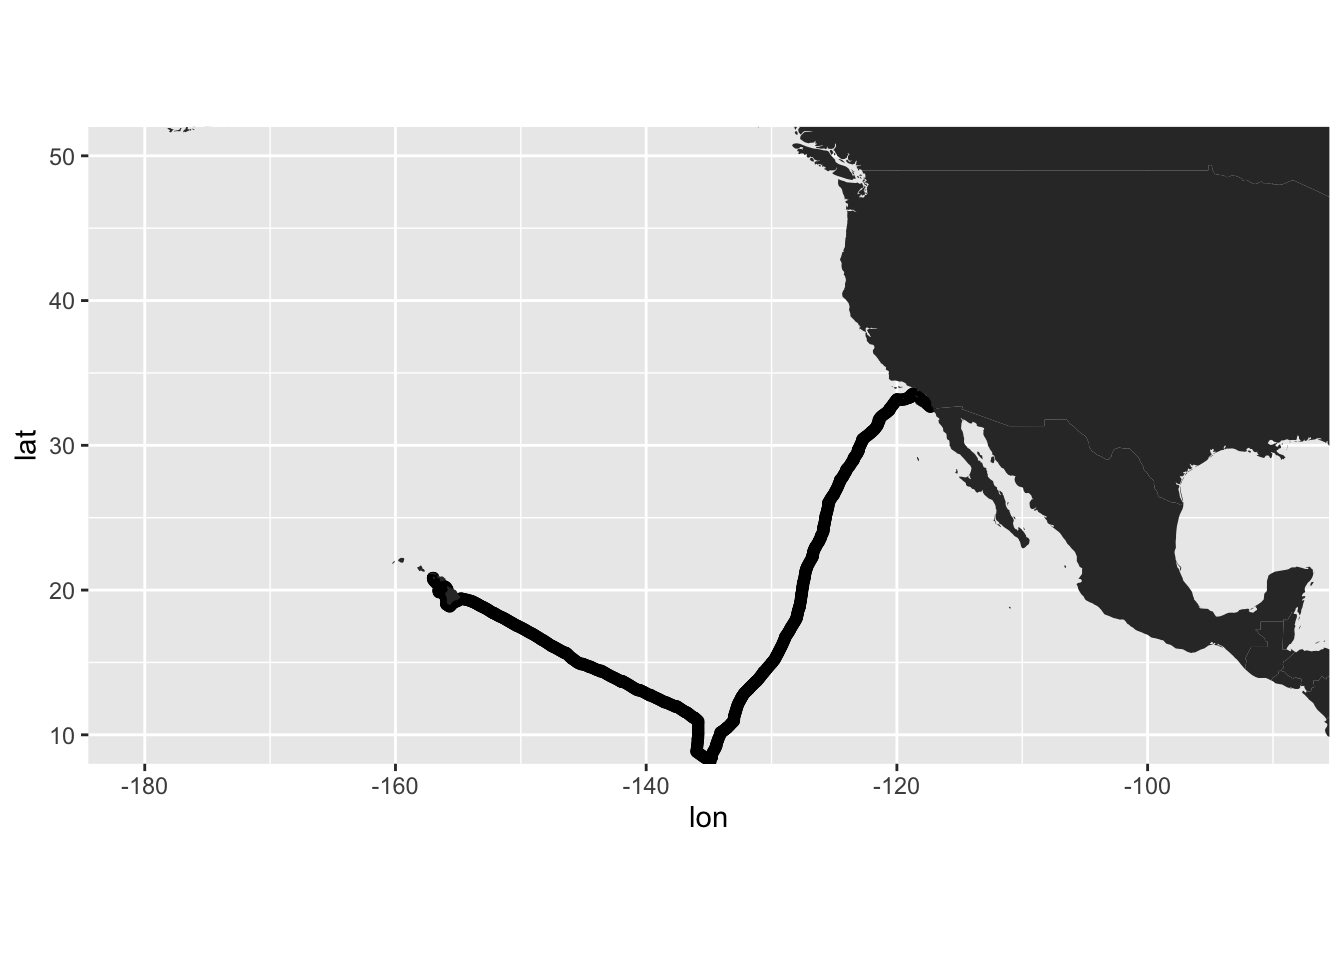
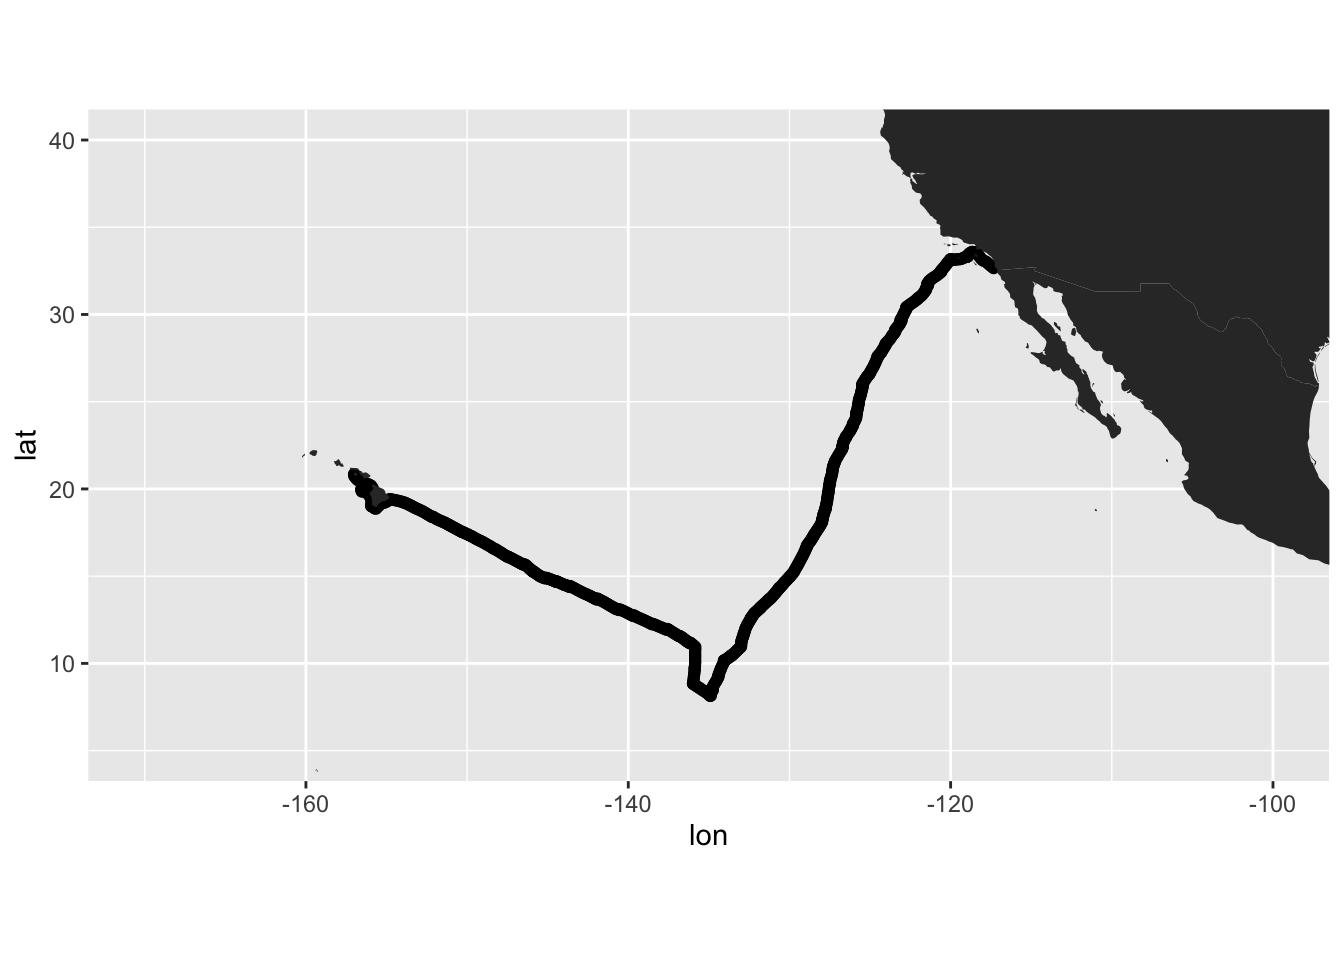
update the mapping saqs

diff --git a/content/saqs/2021-10-15-maps/index.html b/content/saqs/2021-10-15-maps/index.html
@@ -1,5 +1,5 @@
 ---
-title: How to make a map
+title: How do I make a map?
 author: Ben Harden
 date: '2021-10-15'
 slug: []
@@ -11,38 +11,13 @@ draft: no
 <script src="{{< blogdown/postref >}}index_files/header-attrs/header-attrs.js"></script>
 
 
+<p>OK, so this question needs it’s own post…</p>
 <div id="prerequisites" class="section level2">
 <h2>Prerequisites</h2>
-<p>This will be a walk through of how to plot data on a map. We’ll be using the S225 hourly location data to plot a cruise track.</p>
+<p>This will be a walk through of how to plot data on a map. We’ll be using the <a href="S225_hourly.csv">S225 hourly</a> location data to plot a cruise track.</p>
 <p>Before we can get going, we need to load our tidyverse library and read in our data like in previous tutorials.</p>
-<pre class="r"><code>library(tidyverse)</code></pre>
-<pre><code>## ── Attaching packages ─────────────────────────────────────── tidyverse 1.3.0 ──</code></pre>
-<pre><code>## ✓ ggplot2 3.3.3     ✓ purrr   0.3.4
-## ✓ tibble  3.1.0     ✓ dplyr   1.0.5
-## ✓ tidyr   1.1.3     ✓ stringr 1.4.0
-## ✓ readr   1.4.0     ✓ forcats 0.5.1</code></pre>
-<pre><code>## ── Conflicts ────────────────────────────────────────── tidyverse_conflicts() ──
-## x dplyr::filter() masks stats::filter()
-## x dplyr::lag()    masks stats::lag()</code></pre>
-<pre class="r"><code>df &lt;- read_csv(&quot;S225_hourly.csv&quot;)</code></pre>
-<pre><code>## 
-## ── Column specification ────────────────────────────────────────────────────────
-## cols(
-##   dttm = col_datetime(format = &quot;&quot;),
-##   date = col_date(format = &quot;&quot;),
-##   time = col_double(),
-##   zd = col_logical(),
-##   lon = col_double(),
-##   lat = col_double(),
-##   temp = col_double(),
-##   sal = col_double(),
-##   fluor = col_double(),
-##   cdom_1min = col_double(),
-##   xmiss_1min = col_double(),
-##   depth = col_double(),
-##   wind_sp = col_double(),
-##   wind_dir = col_double()
-## )</code></pre>
+<pre class="r"><code>library(tidyverse)
+df &lt;- read_csv(&quot;S225_hourly.csv&quot;)</code></pre>
 </div>
 <div id="mapping" class="section level2">
 <h2>Mapping</h2>
@@ -50,62 +25,81 @@ draft: no
 <pre class="r"><code>ggplot(df, aes(lon,lat)) +
   geom_point()</code></pre>
 <p><img src="{{< blogdown/postref >}}index_files/figure-html/initial-map-1.png" width="672" /></p>
-<p>The next thing we can do is add some land to contextualize the cruise track. We can do this using inbuilt map data in <code>ggplot</code>. The data file we’re going to use is called <code>world</code> because that is the world map data that spans the antimeridian. This data contains not only the lon and lat data of coastlines, but also groups them together into islands and nations so you can plot these territories. Each island and nation gets a unique <code>group</code> name. The way we can use this in ggplot is by using <code>geom_polygon()</code> with a group aesthetic. This basically creates a polygon for every individual group.</p>
+<p>The next thing we can do is add some land to contextualize the cruise track. We can do this using inbuilt map data in <code>ggplot</code>. The data file we’re going to use is called <code>world</code> (perhaps unsurprisingly). This data contains not only the lon and lat data of coastlines, but also groups them together into islands and nations so you can plot these territories. Each island and nation gets a unique <code>group</code> name. The way we can use this in ggplot is by using <code>geom_polygon()</code> with a group aesthetic. This basically creates a polygon for every individual group.</p>
 <pre class="r"><code>ggplot(df, aes(lon, lat)) +
   geom_point() +
   geom_polygon(aes(long, lat, group = group), data = map_data(&quot;world&quot;))</code></pre>
 <p><img src="{{< blogdown/postref >}}index_files/figure-html/unnamed-chunk-1-1.png" width="672" /></p>
 <p>So far so good. We can see our cruise track on a map of the world. We probably don’t need to see the whole world though, but we can solve that whilst also solving another issue - that of aspect ratio. Right now if you resize your figure window, the map will narrow or heighten and create a world with a very odd perspective not see in any textbooks. That’s because when we make a map, we want to make sure that the spatial coordinates of the map match our reality of moving around in that space. i.e. moving some amount in the y-direction will move us the same on-the-ground distance as moving the same amount along the x-axis. <code>ggplot</code> has a coordinate transform that does a good first pass at this and it also allows us (like other <code>coord_*</code> functions) to specify the range of x and y values shown.</p>
-<pre class="r"><code>ggplot(df, aes(lon, lat)) +
+<pre class="r"><code>base_map &lt;- ggplot(df, aes(lon, lat)) +
   geom_point() +
   geom_polygon(aes(long, lat, group = group), data = map_data(&quot;world&quot;)) +
-  coord_quickmap(xlim = c(-180, -90), ylim = c(10,50))</code></pre>
+  coord_quickmap(xlim = c(-170, -100), ylim = c(5,40))
+   
+base_map</code></pre>
 <p><img src="{{< blogdown/postref >}}index_files/figure-html/unnamed-chunk-2-1.png" width="672" /></p>
 <p>We’ve now set the bounds of the plot but also ensured that no shifting of the plotting window size will influence the aspect ratio of the plot.</p>
-<p>The next thing to clean up are the axis labels and the tick labels. The axis labels can be set to NULL as we’ve done before. To get nice looking x and y tick labels we probably want to add °S or °W. This is pretty simply done for the y axis as the locations are all in the same hemisphere. We simply select where we want our ticks and then add on a °S to the absolute value of the y locations. We can do this using <code>seq()</code> to create a sequence of tick values then use <code>paste0()</code> to add the absolute values in this sequence (given they are all negative) to the °S symbol.</p>
-<pre class="r"><code># sequence from -180 to -90 in incriments of 10
-xbreaks &lt;- seq(-180,-90,10)
+<p>And that’s basically that. I’ll give you a few more tips below, but even as it, that’s not a bad map.</p>
+<p>Final things you might want to do is set the theme and remove the lon and lat labels (because its clear that its a map and you don’t need to tell someone what is plotted on the x and y axes:</p>
+<pre class="r"><code>base_map &lt;- base_map + 
+  theme_minimal() +
+  theme(panel.grid.minor = element_blank(),
+        panel.grid.major = element_line(size = .2)) +
+  labs(x = NULL, y = NULL)
+
+base_map</code></pre>
+<p><img src="{{< blogdown/postref >}}index_files/figure-html/unnamed-chunk-3-1.png" width="672" /></p>
+</div>
+<div id="extenstions" class="section level2">
+<h2>Extenstions</h2>
+<p>The next thing one might want to do is adjust the tick labels. To get nice looking x and y tick labels we probably want to add °N or °W to the numbers. To do this we need to tell ggplot where we want the ticks and what labels we want to give them. We’re going to use a few basic R tools to set this up:</p>
+<ul>
+<li><code>seq()</code> creates a sequence of values, i.e. a vector from 1 to 100 in increments of 10:</li>
+</ul>
+<pre class="r"><code>seq(1,100,10)</code></pre>
+<pre><code>##  [1]  1 11 21 31 41 51 61 71 81 91</code></pre>
+<ul>
+<li><code>paste0()</code> joins character values together with no white space, i.e. adding the word “hello” to the ends of the numbers 1 to 10:</li>
+</ul>
+<pre class="r"><code>paste0(1:10,&quot;hello&quot;)</code></pre>
+<pre><code>##  [1] &quot;1hello&quot;  &quot;2hello&quot;  &quot;3hello&quot;  &quot;4hello&quot;  &quot;5hello&quot;  &quot;6hello&quot;  &quot;7hello&quot; 
+##  [8] &quot;8hello&quot;  &quot;9hello&quot;  &quot;10hello&quot;</code></pre>
+<ul>
+<li><code>abs()</code> returns the absolute magnitude of a number, i.e. makes negative numbers positive</li>
+</ul>
+<pre class="r"><code>abs(-1)</code></pre>
+<pre><code>## [1] 1</code></pre>
+<p>So we can use these tools to create good tick locations and make the labels. In the following code, <code>xbreaks</code> is the location of the ticks, and <code>xlabels</code> are the corresponding labels</p>
+<pre class="r"><code># sequence from -170 to -100 in increments of 10
+xbreaks &lt;- seq(-170,-100,10)
 # combine each of the the absolute values with the °W symbol
 xlabels &lt;- paste0(abs(xbreaks), &quot;°W&quot;)
 
-# sequence from 10 to 50 in incriments of 10
-ybreaks &lt;- seq(10,50,10)
+# sequence from 10 to 50 in increments of 10
+ybreaks &lt;- seq(10, 50, 10)
 # combine each of the the absolute values with the °N symbol
-ylabels &lt;- paste0(abs(ybreaks), &quot;°N&quot;)
-
-
-
-ggplot(df, aes(lon, lat)) +
-  geom_point() +
-  geom_polygon(aes(long, lat, group = group), data = map_data(&quot;world&quot;)) +
-  coord_quickmap(xlim = c(-180, -90), ylim = c(10,50)) +
-  labs(x = NULL, y = NULL) +
+ylabels &lt;- paste0(abs(ybreaks), &quot;°N&quot;)</code></pre>
+<p>This give us:</p>
+<pre class="r"><code>xbreaks</code></pre>
+<pre><code>## [1] -170 -160 -150 -140 -130 -120 -110 -100</code></pre>
+<pre class="r"><code>xlabels</code></pre>
+<pre><code>## [1] &quot;170°W&quot; &quot;160°W&quot; &quot;150°W&quot; &quot;140°W&quot; &quot;130°W&quot; &quot;120°W&quot; &quot;110°W&quot; &quot;100°W&quot;</code></pre>
+<pre class="r"><code>ybreaks</code></pre>
+<pre><code>## [1] 10 20 30 40 50</code></pre>
+<pre class="r"><code>ylabels</code></pre>
+<pre><code>## [1] &quot;10°N&quot; &quot;20°N&quot; &quot;30°N&quot; &quot;40°N&quot; &quot;50°N&quot;</code></pre>
+<p>We can add that into our plot with the scale functions:</p>
+<pre class="r"><code>base_map &lt;- base_map +
   scale_y_continuous(breaks = ybreaks, labels = ylabels) +
-  scale_x_continuous(breaks = xbreaks, labels = xlabels)</code></pre>
-<p><img src="{{< blogdown/postref >}}index_files/figure-html/unnamed-chunk-3-1.png" width="672" /></p>
-<p>The last thing to do is potentially change the geom to <code>geom_path()</code> rather than <code>geom_point()</code> and change some of the aesthetics and theme of the plot to bring the data to the fore.</p>
-<pre class="r"><code>ggplot(df, aes(lon, lat)) +
-  geom_path() +
-  geom_polygon(aes(long, lat, group = group), data = map_data(&quot;world&quot;), fill = &quot;grey50&quot;) +
-  coord_quickmap(xlim = c(-180, -90), ylim = c(10,50)) +
-  labs(x = NULL, y = NULL) +
-  scale_y_continuous(breaks = ybreaks, labels = ylabels) +
-  scale_x_continuous(breaks = xbreaks, labels = xlabels) +
-  theme_void() +
-  theme(panel.grid.major = element_line(color = &quot;grey90&quot;),
-        axis.text = element_text(color = &quot;grey50&quot;, size = 10))</code></pre>
-<p><img src="{{< blogdown/postref >}}index_files/figure-html/unnamed-chunk-4-1.png" width="672" /></p>
+  scale_x_continuous(breaks = xbreaks, labels = xlabels)
+
+base_map</code></pre>
+<p><img src="{{< blogdown/postref >}}index_files/figure-html/unnamed-chunk-9-1.png" width="672" /></p>
 <p>Then, as with our previous plotting tools, you can even add extra aesthetics such as coloring the points by temperature.</p>
-<pre class="r"><code>ggplot(df, aes(lon, lat)) +
-  geom_path(aes(color = temp)) +
-  geom_polygon(aes(long, lat, group = group), data = map_data(&quot;world&quot;), fill = &quot;grey50&quot;) +
-  coord_quickmap(xlim = c(-180, -90), ylim = c(10,50)) +
-  labs(x = NULL, y = NULL) +
-  scale_y_continuous(breaks = ybreaks, labels = ylabels) +
-  scale_x_continuous(breaks = xbreaks, labels = xlabels) +
-  theme_void() +
-  theme(panel.grid.major = element_line(color = &quot;grey90&quot;),
-        axis.text = element_text(color = &quot;grey50&quot;, size = 10),
-        legend.position = c(0.9,0.9))</code></pre>
-<p><img src="{{< blogdown/postref >}}index_files/figure-html/unnamed-chunk-5-1.png" width="672" /></p>
+<pre class="r"><code>base_map +
+  geom_point(aes(color = temp)) +
+  scale_color_viridis_c() +
+  labs(color = &quot;Temperature (°C)&quot;) +
+  theme(legend.position = c(.2,.7))</code></pre>
+<p><img src="{{< blogdown/postref >}}index_files/figure-html/unnamed-chunk-10-1.png" width="672" /></p>
 </div>
